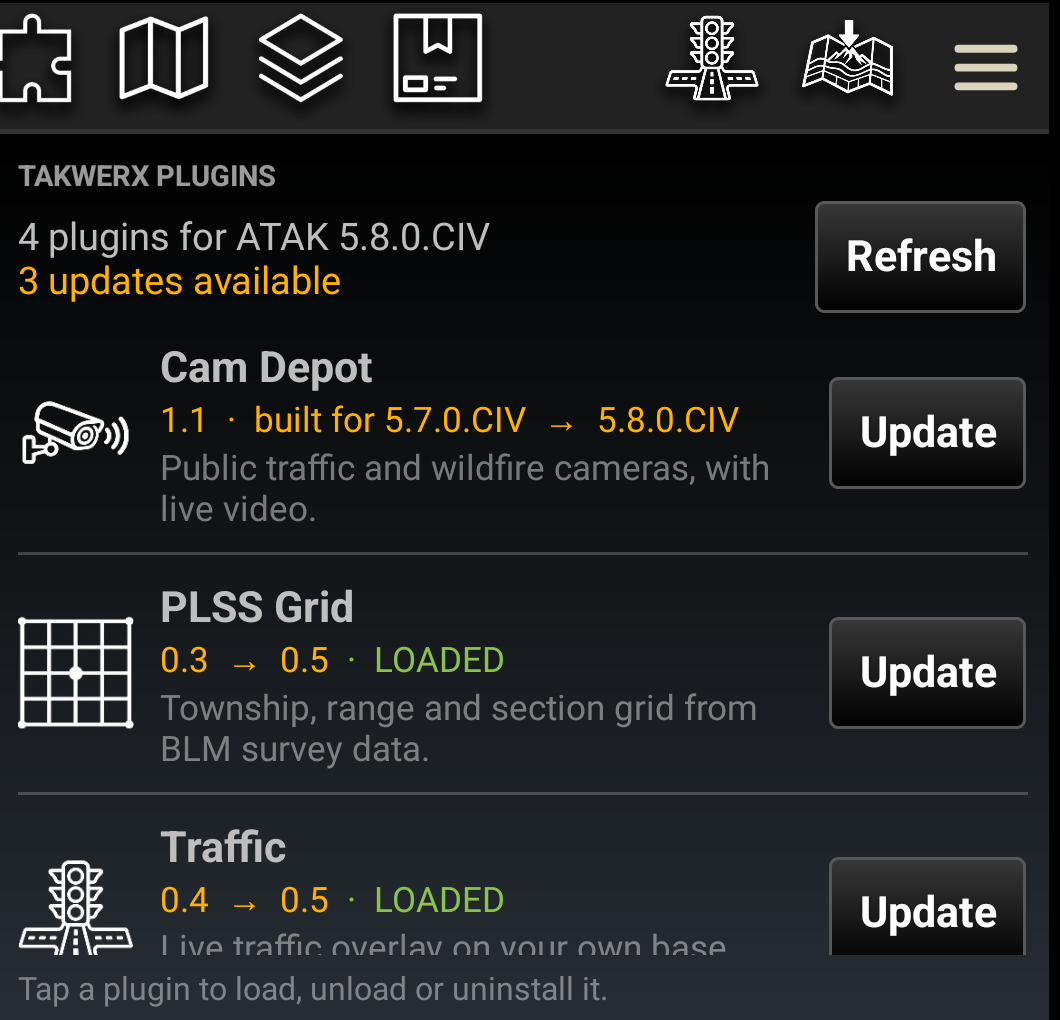
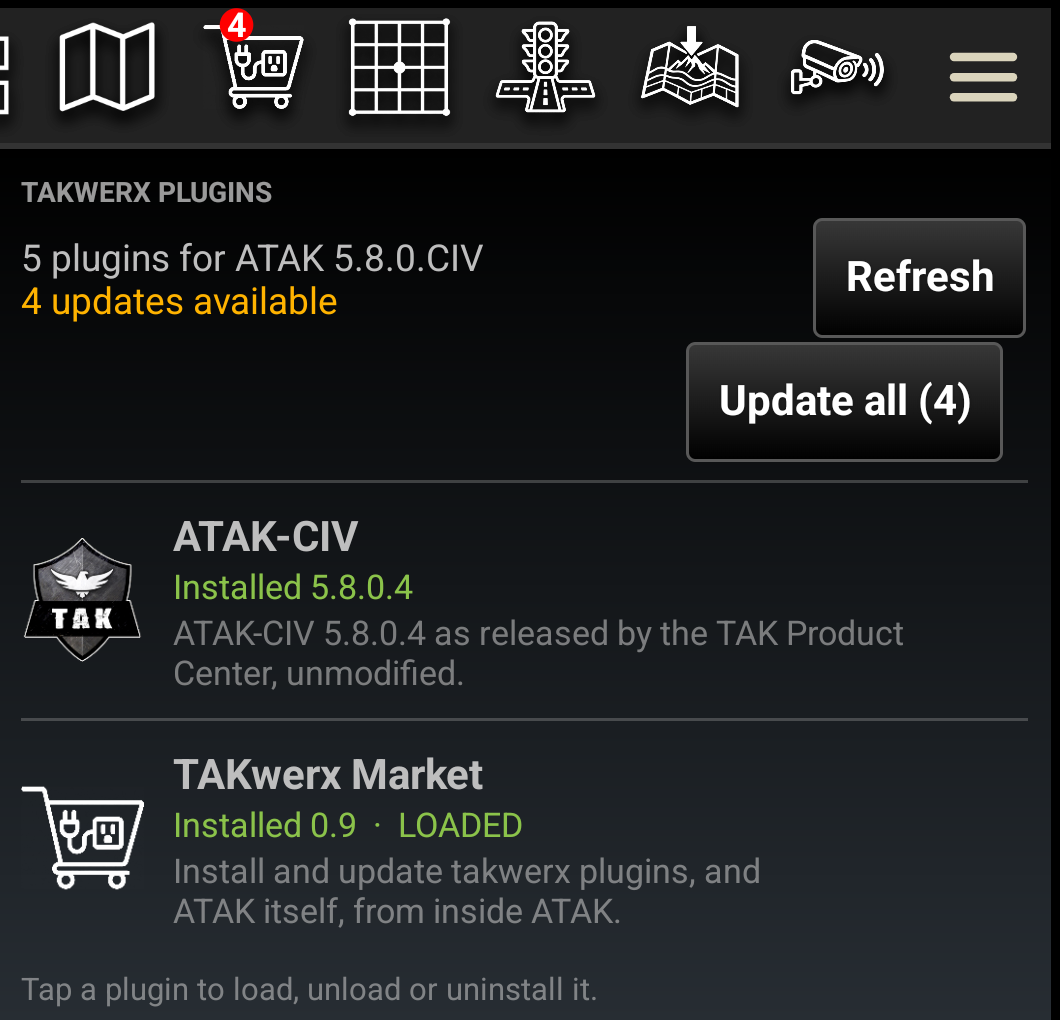
TAKwerx Market 1.0: the ATAK update, run end to end on official ATAK
Signed 0.9 on the S22 (official 5.7.0.5) took the phone to 5.8.0.4 with its
plugins from inside ATAK: ATAK and the market's 5.8 build downloaded and
verified, the market replaced, ATAK unloaded it, the stop hook handed ATAK to
Android 33 ms later, ATAK came back as 5.8.0.4, and Update all (4) moved the
four plugins over in fourteen seconds. Two fixes from that run: the new market
is marked to load before ATAK is handed over (ATAK had marked it not-to-load
when it unloaded it, so it had to be loaded by hand once), and the Update all
button now shares Refresh's right edge. The manual gains the two screens from
that phone and a page for after the update.

Found along the way, not the market's: ATAK 5.8.0.4 will not start with an
Esri .vtpk in atak/imagery. Recorded for Map Depot.

diff --git a/README.md b/README.md
@@ -1,10 +1,10 @@
 ATAK Plugin — TAKwerx Market
 
-**Download TAKwerx Market 0.9** (pick the one matching your ATAK-CIV version, sideload, then load it in ATAK's Plugins manager):
+**Download TAKwerx Market 1.0** (pick the one matching your ATAK-CIV version, sideload, then load it in ATAK's Plugins manager):
 
-- **ATAK-CIV 5.6:** https://github.com/takwerx/takwerx-market/releases/download/v0.9/ATAK-Plugin-TakwerxMarket-0.9--5.6.0-civ-release.apk
-- **ATAK-CIV 5.7:** https://github.com/takwerx/takwerx-market/releases/download/v0.9/ATAK-Plugin-TakwerxMarket-0.9--5.7.0-civ-release.apk
-- **ATAK-CIV 5.8:** https://github.com/takwerx/takwerx-market/releases/download/v0.9/ATAK-Plugin-TakwerxMarket-0.9--5.8.0-civ-release.apk
+- **ATAK-CIV 5.6:** https://github.com/takwerx/takwerx-market/releases/download/v1.0/ATAK-Plugin-TakwerxMarket-1.0--5.6.0-civ-release.apk
+- **ATAK-CIV 5.7:** https://github.com/takwerx/takwerx-market/releases/download/v1.0/ATAK-Plugin-TakwerxMarket-1.0--5.7.0-civ-release.apk
+- **ATAK-CIV 5.8:** https://github.com/takwerx/takwerx-market/releases/download/v1.0/ATAK-Plugin-TakwerxMarket-1.0--5.8.0-civ-release.apk
 
 All releases: https://github.com/takwerx/takwerx-market/releases
 
@@ -51,7 +51,7 @@ market pins that signature for ATAK's package before Android is asked.
 _________________________________________________________________
 STATUS
 
-Version 0.9. Ninth submission.
+Version 1.0. Tenth submission.
 
 Verified on hardware against a live catalog: Samsung Galaxy XCover Pro,
 Android 13, ATAK-CIV 5.8.0.3. Catalog fetch, per-ATAK filtering, update
@@ -131,6 +131,19 @@ certificate is pinned for its package alone; an ATAK that did not come from
 tak.gov is told so and left alone. Verified on ATAK-CIV 5.8.0.3 (dev build):
 the row, the warning, and the refusal for a non-tak.gov ATAK. The full
 5.7 to 5.8 run needs a tak.gov-signed build on an official ATAK.
+
+1.0 is that run, done. Signed 0.9 on a Samsung Galaxy S22 Ultra, official
+ATAK-CIV 5.7.0.5, Android 14: Update on the ATAK row downloaded 5.8.0.4 and
+the market's 5.8 build, Android replaced the market, ATAK unloaded it and 33
+ms later the market's stop hook handed ATAK to the installer, ATAK came back
+as 5.8.0.4 with its data, the new market's "Update all (4)" replaced the four
+5.7 plugins in fourteen seconds, all loaded, all up to date. Two things that
+run exposed are fixed here: ATAK had marked the market not-to-load when it
+unloaded it for the replace, so the new build had to be loaded by hand once
+(the handoff now marks it to load first); and the Update all button sat inset
+from Refresh. The run also found that ATAK 5.8.0.4 itself will not start with
+an Esri vector tile package in atak/imagery (a Map Depot download); that is
+ATAK's and is recorded for Map Depot, not the market's.
 
 _________________________________________________________________
 POINT OF CONTACTS

diff --git a/docs/USER_GUIDE.md b/docs/USER_GUIDE.md
@@ -1,12 +1,12 @@
 # TAKwerx Market for ATAK — User Guide
 
-**Version 0.9 · takwerx**
+**Version 1.0 · takwerx**
 
-**Download TAKwerx Market 0.9** (pick the one matching your ATAK-CIV version, sideload, then load it in ATAK's Plugins manager):
+**Download TAKwerx Market 1.0** (pick the one matching your ATAK-CIV version, sideload, then load it in ATAK's Plugins manager):
 
-- **ATAK-CIV 5.6:** https://github.com/takwerx/takwerx-market/releases/download/v0.9/ATAK-Plugin-TakwerxMarket-0.9--5.6.0-civ-release.apk
-- **ATAK-CIV 5.7:** https://github.com/takwerx/takwerx-market/releases/download/v0.9/ATAK-Plugin-TakwerxMarket-0.9--5.7.0-civ-release.apk
-- **ATAK-CIV 5.8:** https://github.com/takwerx/takwerx-market/releases/download/v0.9/ATAK-Plugin-TakwerxMarket-0.9--5.8.0-civ-release.apk
+- **ATAK-CIV 5.6:** https://github.com/takwerx/takwerx-market/releases/download/v1.0/ATAK-Plugin-TakwerxMarket-1.0--5.6.0-civ-release.apk
+- **ATAK-CIV 5.7:** https://github.com/takwerx/takwerx-market/releases/download/v1.0/ATAK-Plugin-TakwerxMarket-1.0--5.7.0-civ-release.apk
+- **ATAK-CIV 5.8:** https://github.com/takwerx/takwerx-market/releases/download/v1.0/ATAK-Plugin-TakwerxMarket-1.0--5.8.0-civ-release.apk
 
 All releases: https://github.com/takwerx/takwerx-market/releases
 
@@ -195,9 +195,16 @@ listed as *built for 5.7.0.CIV → 5.8.0.CIV*, and **Update all** moves them ove
 one after another, each with the same three screens as a single update.
 
 The ATAK file is the TAK Product Center's own release, copied unchanged and
-carrying its signature; the market checks that signature before Android ever
-sees the file. An ATAK that did not come from tak.gov cannot be updated from
-here, and the market says so instead of letting Android fail.
+carrying its signature; the market checks that signature, and that the file is
+the version it was told, before Android ever sees it. An ATAK that did not come
+from tak.gov cannot be updated from here, and the market says so instead of
+letting Android fail.
+
+![After the ATAK update and Update all: every plugin on 5.8, header All up to date](screenshots/21-all-on-58.png)
+
+When it is done the header says **All up to date**, ATAK's own row reads
+Installed with the new version, and the count leaves the toolbar icon. Nothing
+you had downloaded into ATAK was touched.
 
 ### "signed with a different key"
 
